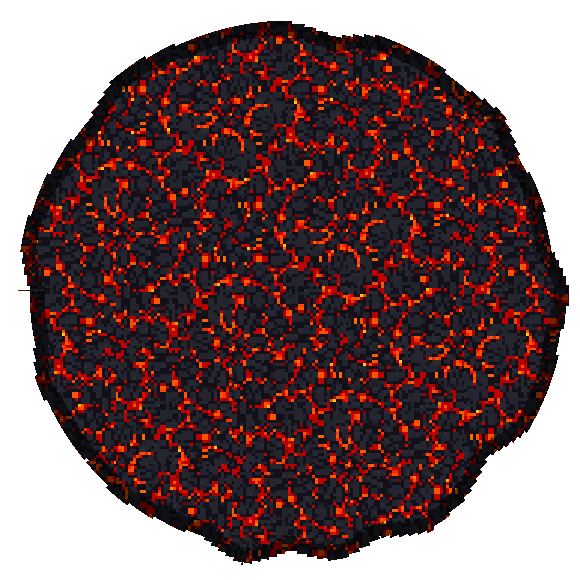
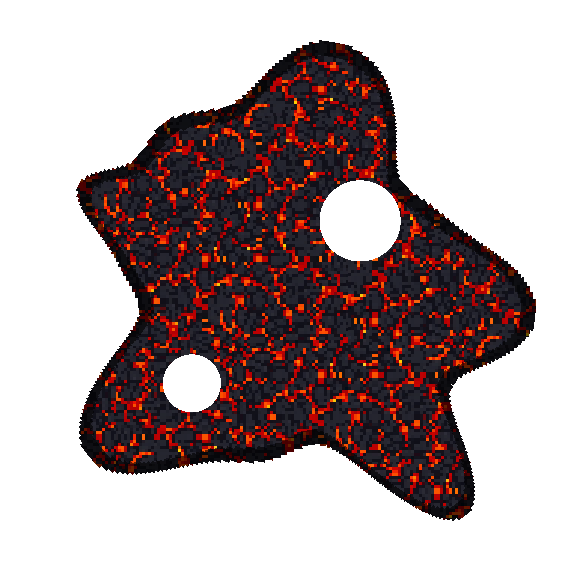
艾雅法拉海底火山二版（火山锥鼓起 + 火山口喷发、不规则熔岩池、去水环）；推进之王 / 塞雷娅按预审去重复（裂缝截段 crop、去尘土墙、速度线乱向、压白闪）
同 seed TRACE 艾雅法拉 / 塞雷娅 / 推进之王逐行相同；出图 2 张约 0.07 美元。docs/199 §7.9

diff --git a/docs/199_ult_proto.md b/docs/199_ult_proto.md
@@ -357,6 +357,9 @@ cloud-results/ult-T2 3c1e79e0f（`python tools/ult_pair.py --t0 cloud-results/ul
 - 艾雅法拉新设计「海底火山」（协调人 10-30 转用户认可）：① 地面压暗、暗红裂纹（`fx_ey_fork1–4`）渗开越来越亮 + 8 个渗口一串串气泡上冒；② 顿帧 + 地面鼓起（隆起暗影 + 三圈地块顶起）+ Codex 火柱关键帧冲起，裹三团黑蒸汽 `fx_ey_steam`（往上翻、冷成灰）+ 底部翻滚水环 `fx_ey_water`（旋转外推）；③ 火山弹 `fx_ey_bomb` 拖黑烟斜砸、落地浮石 `fx_ey_pumice`（4 种）亮橙 1.4 秒冷成黑；熔岩池结壳压亮。判定 / 时序 / 伤害不动，同 seed TRACE 逐行相同。出图 4 张约 0.14 美元。预审报 2.4–3.2 秒发白——是所有终结技共用的冲击帧全屏闪，判误报。录像 `eyjafjalla_海底火山_对照.mp4`。
   - 想改的时序（只列不改，需协调人定）：蓄压段 `ult/ey_crack` 0.4 秒偏短，气泡 / 渗光看不太出，建议 0.6–0.7 秒；火柱到第一颗火山弹 `t_fall = t_col + 0.15` 间隔可拉到 0.3 秒，让「冲天 → 落雨」分开两拍。两项都会推后伤害时刻，总伤害不变。
 
+- 艾雅法拉第二轮（用户 10-30「熔岩池结壳太圆、需要不规则；水流去掉；熔岩柱没有立体感，要更有火山的感觉」）：熔岩池贴图改不规则多瓣 + 熔岩舌 + 两处岛；去掉水环 `fx_ey_water`；Codex 火柱换成地面鼓起一座火山锥 `fx_ey_cone`（三分之二俯视、明暗坡面）+ 火山口喷泉 `fx_ey_fount` + 黑蒸汽从火山口翻起（`fx_ey_pillar` 删）。出图 2 张约 0.07 美元。录像 `eyjafjalla_海底火山_对照2.mp4`。
+- 协调人转 v3 预审：推进之王地裂同形重复 → `PF.cracks` 加 `crop`（截贴图不同段，4 种形状截出几十种）并去掉尘土墙；塞雷娅压白闪、去掉波前尘石墙、裂纹画面角度 / 长短错开、速度线 24 条等距改 14 条乱向。三人（含艾雅法拉）预审仍报冲击瞬间全屏发白——是所有终结技共用的冲击帧全屏闪（`ult.gd impact` / `flash_rt`，不在本分支画法段），建议架构会话统一压；塞雷娅裂纹仍报拼接（截图看已是分叉网，判偏严）。星熊边框 / 凯尔希拼接这轮没逐一核。同 seed TRACE 三人逐行相同。录像 `saria_v2_对照6.mp4`、`siege_v2_对照6.mp4`。
+
 ## 8 已知问题 / 下一步
 
 - 对齐已定稿（§5.7）；聚怪档 5 名自身圆心的人 76.7% 超上限 1.7 点、归溟幽灵鲨均匀 44.2% 差 0.8，属测试台圈距台阶。重型小怪不倒照 §3.3 口径。
